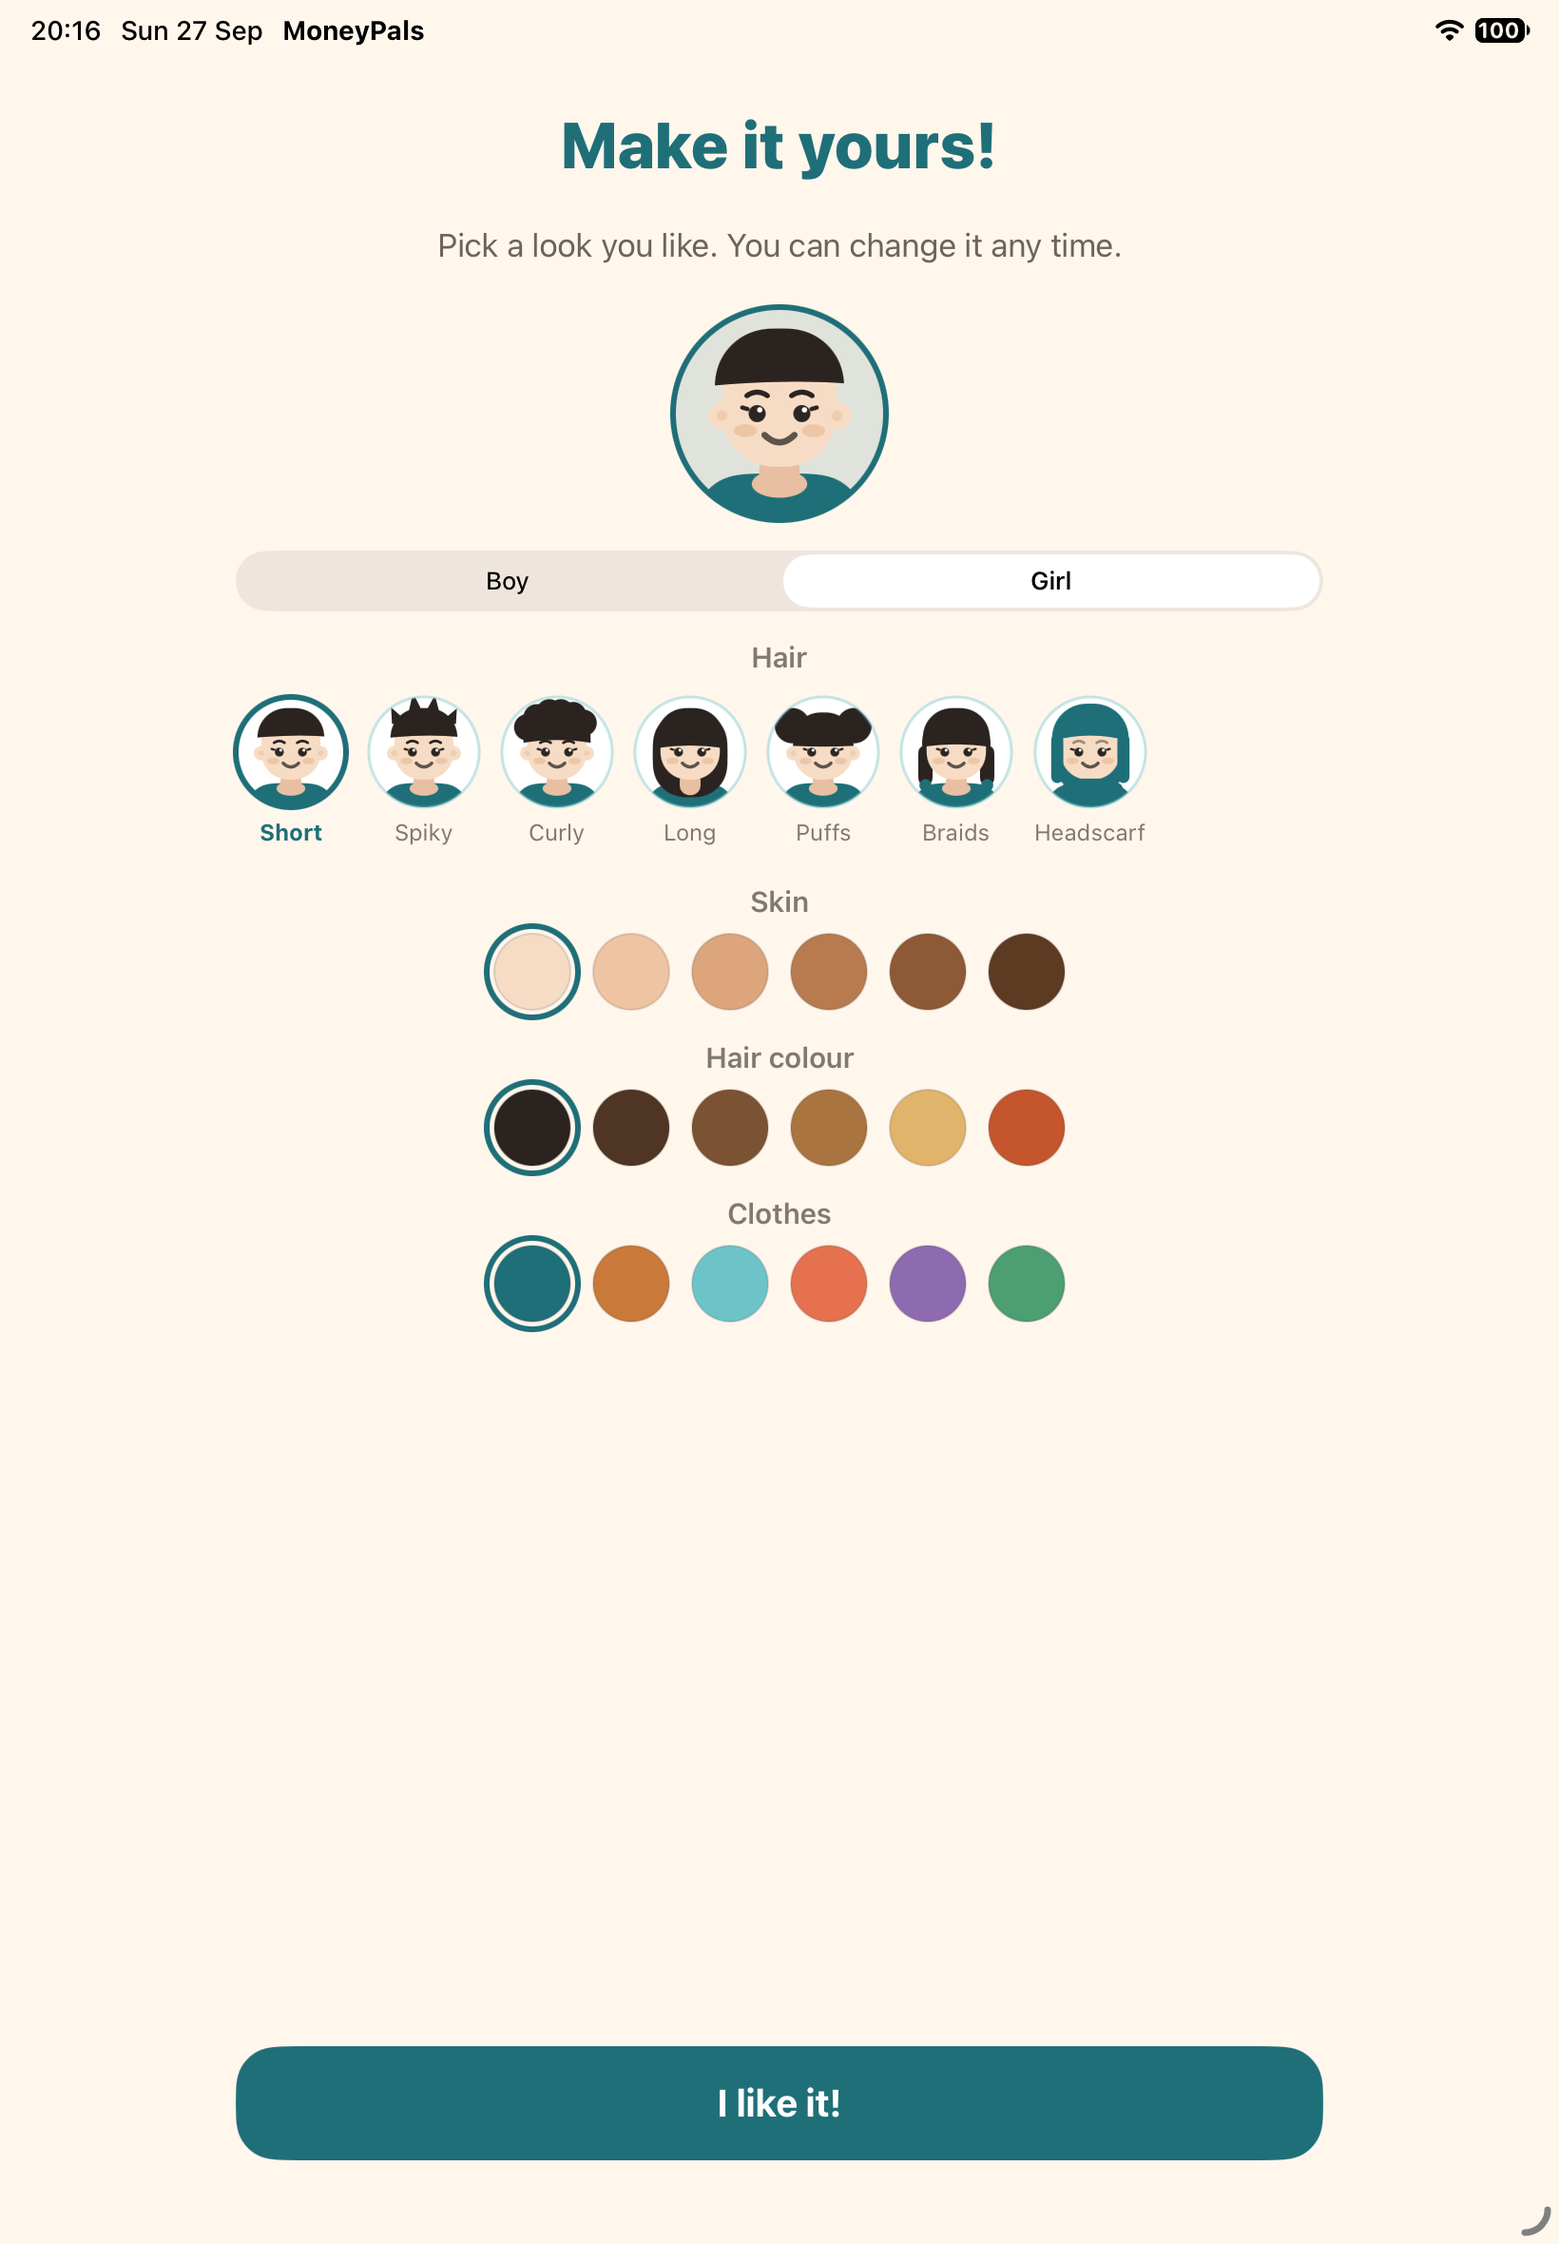
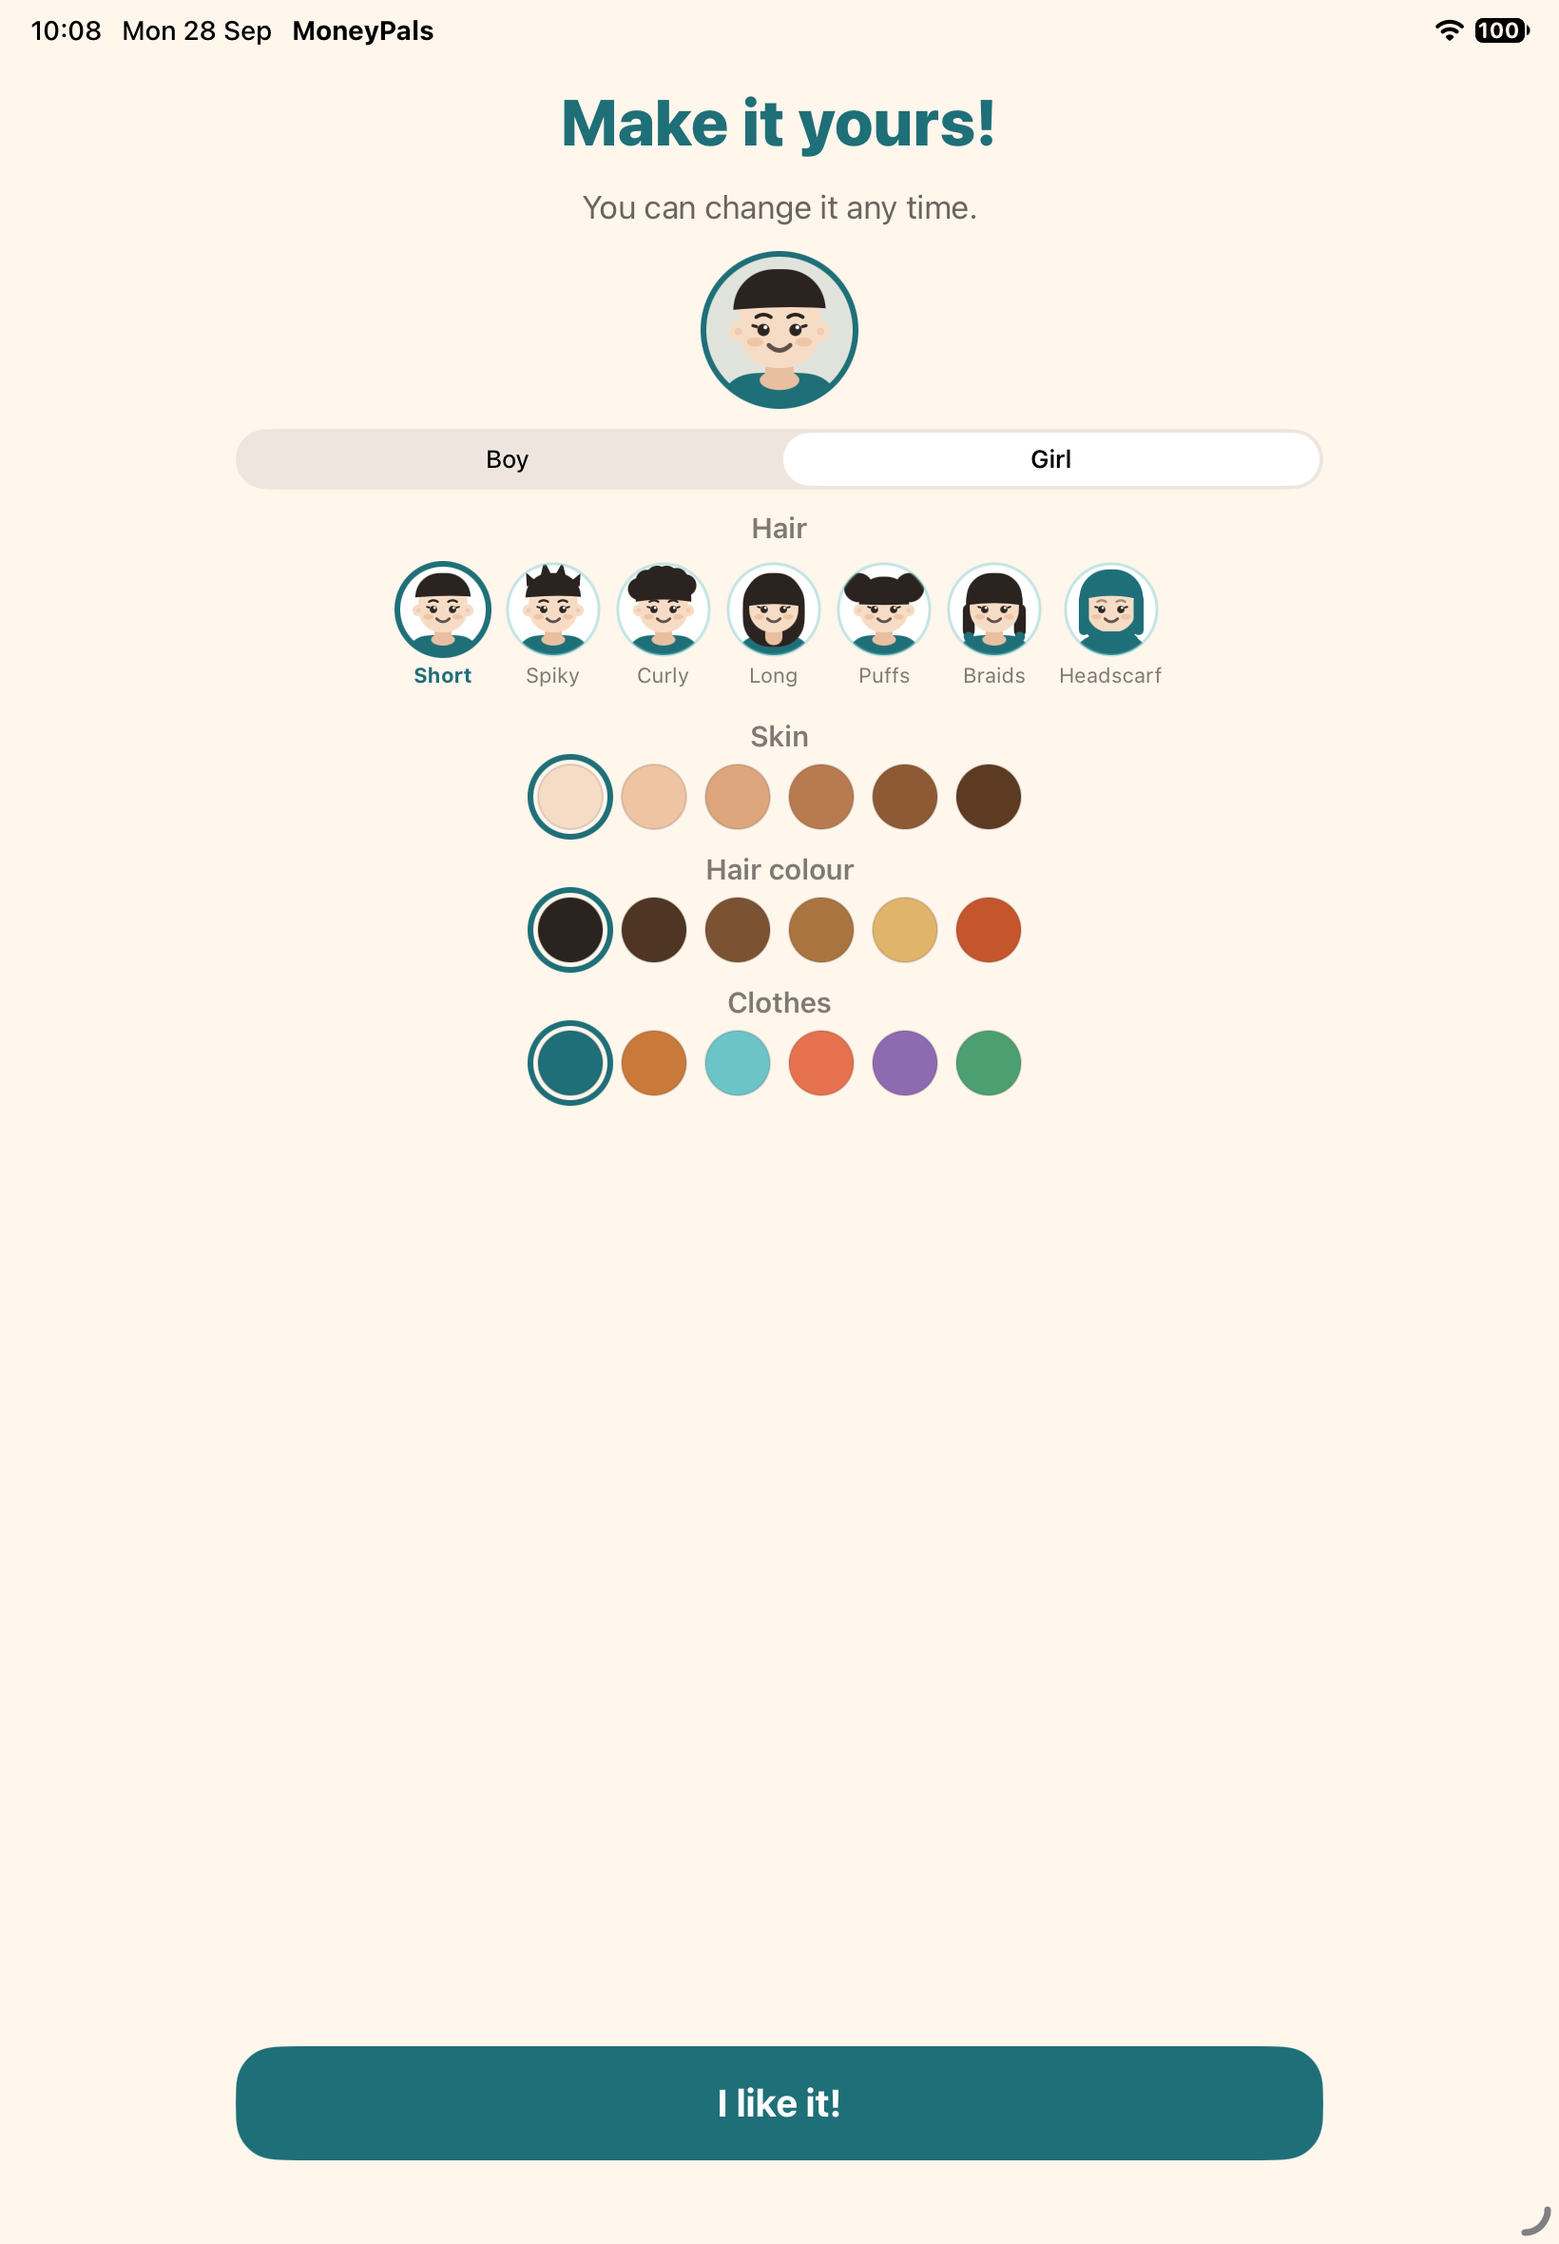
Wrap the hairstyle choices so none of them run off the screen
The hairstyles sat in a sideways-scrolling strip, so at rest Braids was sliced
in half and Headscarf was off the right edge entirely. A child reads that as
"those are all the choices" — the same way a cut-off row read as broken on
"Who's learning?".

They wrap now instead. ViewThatFits picks the widest layout that actually fits:
one row where there is room for it (a tablet), four to a row on a phone.
Nothing in the builder scrolls sideways any more.

Making room for the second row meant taking height out of everything else, so
that all five groups of choices AND the button are on screen at rest down to
the smallest current phone: a smaller live preview, smaller style tiles and
colour swatches, tighter spacing, a one-line subtitle, and on the grown-up
"Add a kid" screen the caption above the name field is gone — the placeholder
already said "First name or nickname".

Skin tones stay numbered.

Verified on iPhone 17, iPhone 17e (the smallest) and iPad Air 11-inch (M4),
all iOS 27.0; 48 unit tests pass. Screenshots updated, including the two new
iPhone 17e ones.

diff --git a/App/Avatar/AvatarBuilderView.swift b/App/Avatar/AvatarBuilderView.swift
@@ -6,10 +6,14 @@
 //  grown-up's "Add a kid" uses it, and "Make it yours!" from the map header
 //  uses it, so what is made really is what is shown everywhere.
 //
-//  Pictures first, words second (README section 7 rule 3): the hairstyle row is
+//  Pictures first, words second (README section 7 rule 3): the hairstyles are
 //  seven small drawings of THIS child wearing each style, in the colours they
 //  have already picked, and every colour row is swatches. Every control still
 //  carries a spoken label, because a picture alone says nothing to VoiceOver.
+//
+//  Nothing here scrolls sideways. A horizontal strip put the last styles off
+//  the right edge, which a child reads as "that's all of them" — so the styles
+//  WRAP instead, and every choice is on screen at rest on the smallest phone.
 //
 
 import SwiftUI
@@ -18,18 +22,19 @@ struct AvatarBuilderView: View {
     @Binding var avatar: Avatar
     /// How big the live preview is. Smaller inside the grown-up's Add-a-kid
     /// screen, which has a name field and a button to fit as well.
-    var previewSize: CGFloat = 112
+    var previewSize: CGFloat = 80
 
     var body: some View {
-        // Tight spacing on purpose: all five groups of choices have to be
-        // reachable without the last one hiding behind the button.
-        VStack(spacing: 16) {
+        // Tight spacing on purpose: all five groups of choices, including both
+        // rows of hairstyles, have to be on screen at rest on the smallest
+        // phone, with the button still fully visible under them.
+        VStack(spacing: 12) {
             AvatarBadge(avatar: avatar, size: previewSize)
                 .accessibilityLabel("Your look: \(avatar.spokenDescription)")
                 .animation(.easeInOut(duration: Motion.press), value: avatar)
 
             kindPicker
-            hairstyleRow
+            hairstyleChoices
             swatchRow(title: "Skin",
                       colors: Palette.avatarSkinTones,
                       names: (1...Palette.avatarSkinTones.count).map { "Skin tone \($0)" },
@@ -63,19 +68,35 @@ struct AvatarBuilderView: View {
 
     // MARK: Hairstyle
 
-    private var hairstyleRow: some View {
-        VStack(spacing: 8) {
+    private var hairstyleChoices: some View {
+        let styles = Hairstyle.choices(for: avatar.kind)
+        return VStack(spacing: 6) {
             rowTitle("Hair")
-            ScrollView(.horizontal, showsIndicators: false) {
-                HStack(spacing: 12) {
-                    ForEach(Hairstyle.choices(for: avatar.kind)) { style in
-                        hairstyleButton(style)
-                    }
-                }
-                .padding(.horizontal, 24)
-                .padding(.vertical, 4)   // room for the selected ring
+            // Widest layout that fits: one row where there is room for it (a
+            // tablet), otherwise four to a row. Never a sideways scroll.
+            ViewThatFits(in: .horizontal) {
+                hairstyleGrid(styles, columns: styles.count)
+                hairstyleGrid(styles, columns: 4)
+                hairstyleGrid(styles, columns: 3)
             }
         }
+    }
+
+    private func hairstyleGrid(_ styles: [Hairstyle], columns: Int) -> some View {
+        let rows = stride(from: 0, to: styles.count, by: columns).map { start in
+            Array(styles[start..<min(start + columns, styles.count)])
+        }
+        // A plain Grid, not a LazyVGrid: the tiles are few, and `.top` keeps a
+        // shorter last row lined up under the first.
+        return Grid(alignment: .top, horizontalSpacing: 10, verticalSpacing: 8) {
+            ForEach(rows.indices, id: \.self) { row in
+                GridRow {
+                    ForEach(rows[row]) { style in hairstyleButton(style) }
+                }
+            }
+        }
+        .padding(.horizontal, 20)
+        .padding(.vertical, 4)   // room for the selected ring
     }
 
     private func hairstyleButton(_ style: Hairstyle) -> some View {
@@ -87,21 +108,23 @@ struct AvatarBuilderView: View {
         return Button {
             avatar.hairstyle = style
         } label: {
-            VStack(spacing: 6) {
+            VStack(spacing: 4) {
                 ZStack {
                     Circle().fill(.white)
                     AvatarFigure(avatar: preview)
                         .frame(width: 100, height: 100)
-                        .scaleEffect(0.58)
-                        .frame(width: 58, height: 58)
+                        .scaleEffect(0.48)
+                        .frame(width: 48, height: 48)
                         .clipShape(Circle())
                     Circle().stroke(isSelected ? Palette.teal : Palette.borderField,
                                     lineWidth: isSelected ? Border.choice : Border.field)
                 }
-                .frame(width: 58, height: 58)
+                .frame(width: 48, height: 48)
 
                 Text(style.label)
-                    .font(.caption.weight(isSelected ? .bold : .regular))
+                    .font(.caption2.weight(isSelected ? .bold : .regular))
+                    .lineLimit(1)
+                    .minimumScaleFactor(0.8)
                     .foregroundStyle(isSelected ? Palette.teal : Palette.textSoft)
             }
         }
@@ -117,14 +140,14 @@ struct AvatarBuilderView: View {
                            names: [String],
                            selection: Int,
                            onPick: @escaping (Int) -> Void) -> some View {
-        VStack(spacing: 8) {
+        VStack(spacing: 6) {
             rowTitle(title)
-            HStack(spacing: 12) {
+            HStack(spacing: 10) {
                 ForEach(colors.indices, id: \.self) { index in
                     Button { onPick(index) } label: {
                         Circle()
                             .fill(colors[index])
-                            .frame(width: 40, height: 40)
+                            .frame(width: 34, height: 34)
                             // A hairline on every swatch, so the palest skin
                             // tone is still a circle against the cream page.
                             .overlay(Circle().stroke(Palette.ink.opacity(0.15), lineWidth: Border.hairline))

diff --git a/App/SetupView.swift b/App/SetupView.swift
@@ -199,16 +199,16 @@ struct AddKidView: View {
     var body: some View {
         VStack(spacing: 0) {
             ScrollView {
-                VStack(spacing: 22) {
+                VStack(spacing: 14) {
                     Text("Add a kid")
                         .font(.screenTitle)
                         .foregroundStyle(Palette.textHeading)
 
                     // Name — first name / nickname only (README section 6).
-                    // No last names.
+                    // No last names. The placeholder is the label: a separate
+                    // caption above it said the same thing twice and cost a
+                    // row of the builder on a small phone.
                     VStack(alignment: .leading, spacing: 6) {
-                        Text("What should we call them?")
-                            .font(.subheadline).foregroundStyle(Palette.textSoft)
                         TextField("First name or nickname", text: $name)
                             .font(.title3)
                             .padding(16)
@@ -222,18 +222,22 @@ struct AddKidView: View {
                     }
                     .padding(.horizontal, 24)
 
-                    // The avatar builder itself (README section 6).
-                    AvatarBuilderView(avatar: $avatar, previewSize: 96)
-
-                    Text("Your child can change all of this the first time they tap their own face.")
+                    // Said here, next to the name, rather than after the
+                    // builder, where it would sit under the fold.
+                    Text("Your child can change all of this later.")
                         .font(.footnote)
                         .multilineTextAlignment(.center)
                         .foregroundStyle(Palette.textFaint)
                         .padding(.horizontal, 30)
+
+                    // The avatar builder itself (README section 6). A smaller
+                    // preview than the child's own screen, because this one
+                    // carries the name field above it too.
+                    AvatarBuilderView(avatar: $avatar, previewSize: 62)
                 }
                 // Sits a little below the top of the screen rather than centred.
-                .padding(.top, 24)
-                .padding(.bottom, 24)
+                .padding(.top, 12)
+                .padding(.bottom, 12)
             }
 
             Button("Start learning") {

diff --git a/App/KidFirstRunView.swift b/App/KidFirstRunView.swift
@@ -108,13 +108,13 @@ struct KidFirstRunView: View {
     private var lookStep: some View {
         VStack(spacing: 0) {
             ScrollView {
-                VStack(spacing: 22) {
+                VStack(spacing: 14) {
                     Text("Make it yours!")
                         .font(.screenTitle)
                         .foregroundStyle(Palette.textHeading)
                         .multilineTextAlignment(.center)
 
-                    Text("Pick a look you like. You can change it any time.")
+                    Text("You can change it any time.")
                         .font(.body)
                         .multilineTextAlignment(.center)
                         .foregroundStyle(Palette.textMuted)
@@ -122,8 +122,11 @@ struct KidFirstRunView: View {
 
                     AvatarBuilderView(avatar: $avatar)
                 }
-                .padding(.top, 24)
-                .padding(.bottom, 24)
+                // Tighter than the other screens': this one has to hold the
+                // whole builder above the button without scrolling, down to
+                // the smallest phone.
+                .padding(.top, 12)
+                .padding(.bottom, 12)
             }
 
             Button("I like it!") {

diff --git a/Tests/ProgressStoreTests.swift b/Tests/ProgressStoreTests.swift
@@ -116,7 +116,7 @@ final class ProgressStoreTests: XCTestCase {
     /// A level's lessons alone do not finish it: the friendly level check is the
     /// last step, so the next level stays shut until the check is played.
     func testTheLevelCheckIsTheLastStepOfALevel() throws {
-        let id = store.addKid(name: "Mia", kind: .girl, colorIndex: 0)
+        let id = store.addKid(name: "Mia", avatar: .defaultLook(kind: .girl, outfitColorIndex: 0))
         for lesson in library.lessons(inLevel: 1) {
             store.recordCompletion(kidID: id, lessonID: lesson.id, levelID: 1,
                                    stars: 3, coins: lesson.coins, minutes: 3)

diff --git a/docs/RUNNING.md b/docs/RUNNING.md
@@ -167,7 +167,10 @@ expand fine. `xcodebuild … test` runs 48 unit tests, all passing. The app was
 then installed and driven on an **iPhone 17** and an **iPad Air 11-inch (M4)**
 simulator (both iOS 27.0): every screen type, the right and wrong answer paths,
 the avatar builder and a child's first time, and a full quit-and-relaunch to
-confirm progress really is saved.
+confirm progress really is saved. "Make it yours!" is also checked on an
+**iPhone 17e**, the smallest current phone — every hairstyle and every colour
+has to be on screen at rest there, with the button still fully visible, because
+a choice a child has to scroll to find reads as a choice that isn't there.
 
 ### Screenshots
 
@@ -234,7 +237,9 @@ This version's avatar screens are in
 | Yay! — Penny and the child celebrating together | `avatar/06-yay.png` |
 | The grown-up "Add a kid" screen, using the same builder | `avatar/07-add-kid.png` |
 | The dashboard, with each child's own face at 40pt | `avatar/08-dashboard.png` |
-| iPad — "Who's learning?", "Make it yours!" (all seven styles at once) and the map | `avatar/ipad-*.png` |
+| "Make it yours!" on an iPhone 17e — the smallest phone, everything at rest | `avatar/09-make-it-yours-iphone-17e.png` |
+| "Add a kid" on an iPhone 17e | `avatar/10-add-kid-iphone-17e.png` |
+| iPad — "Who's learning?", "Make it yours!" (all seven styles in one row) and the map | `avatar/ipad-*.png` |
 
 ### Reproducing the screenshots
 
